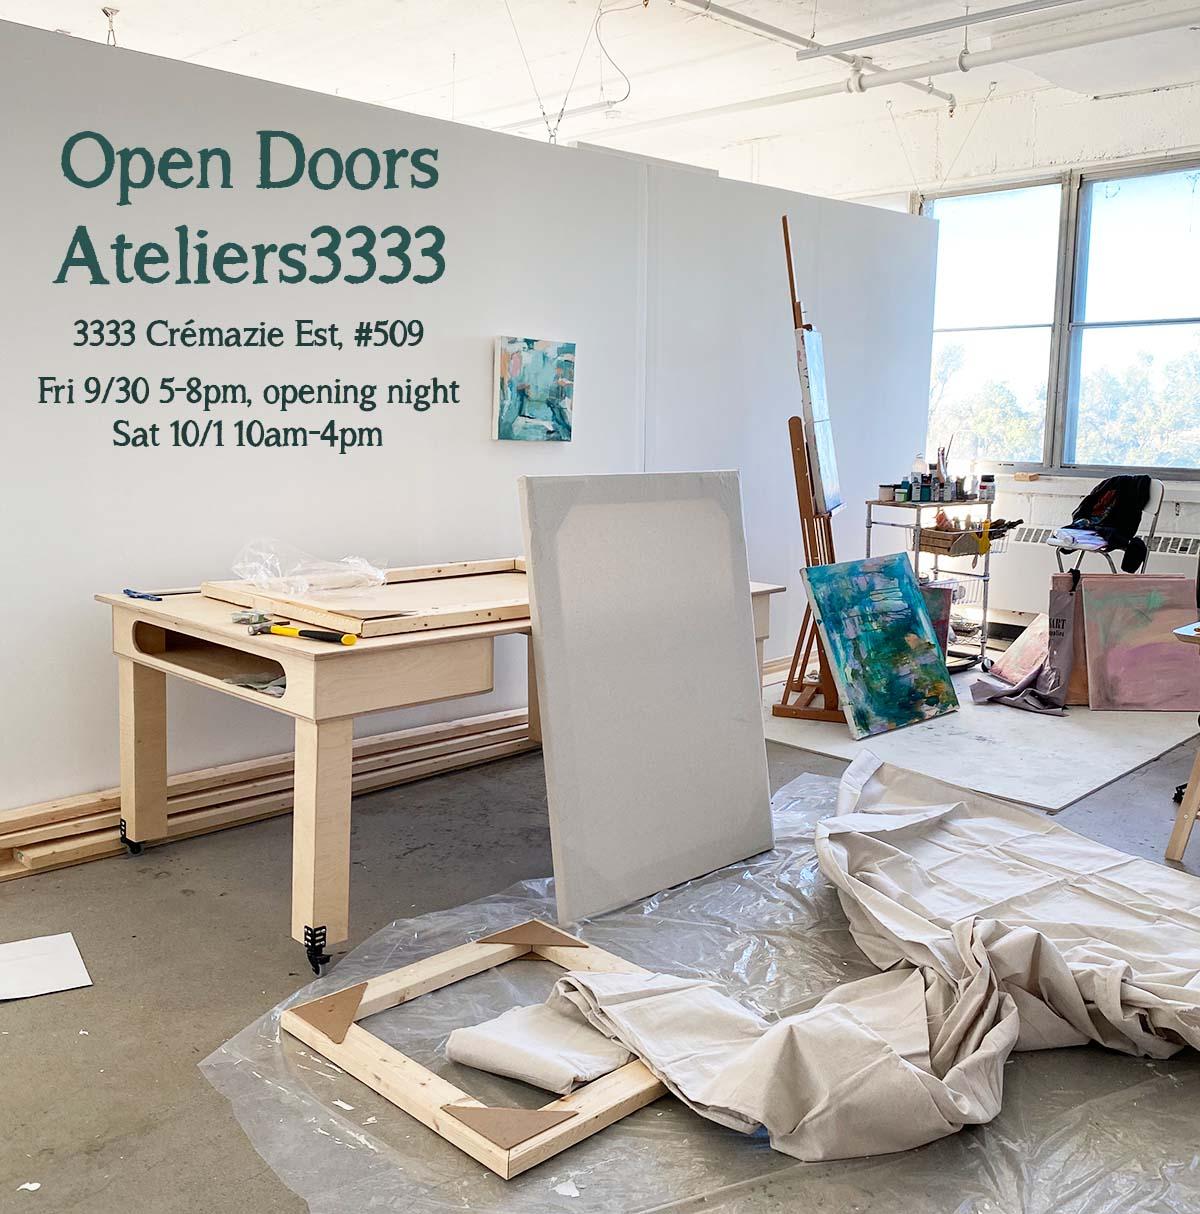
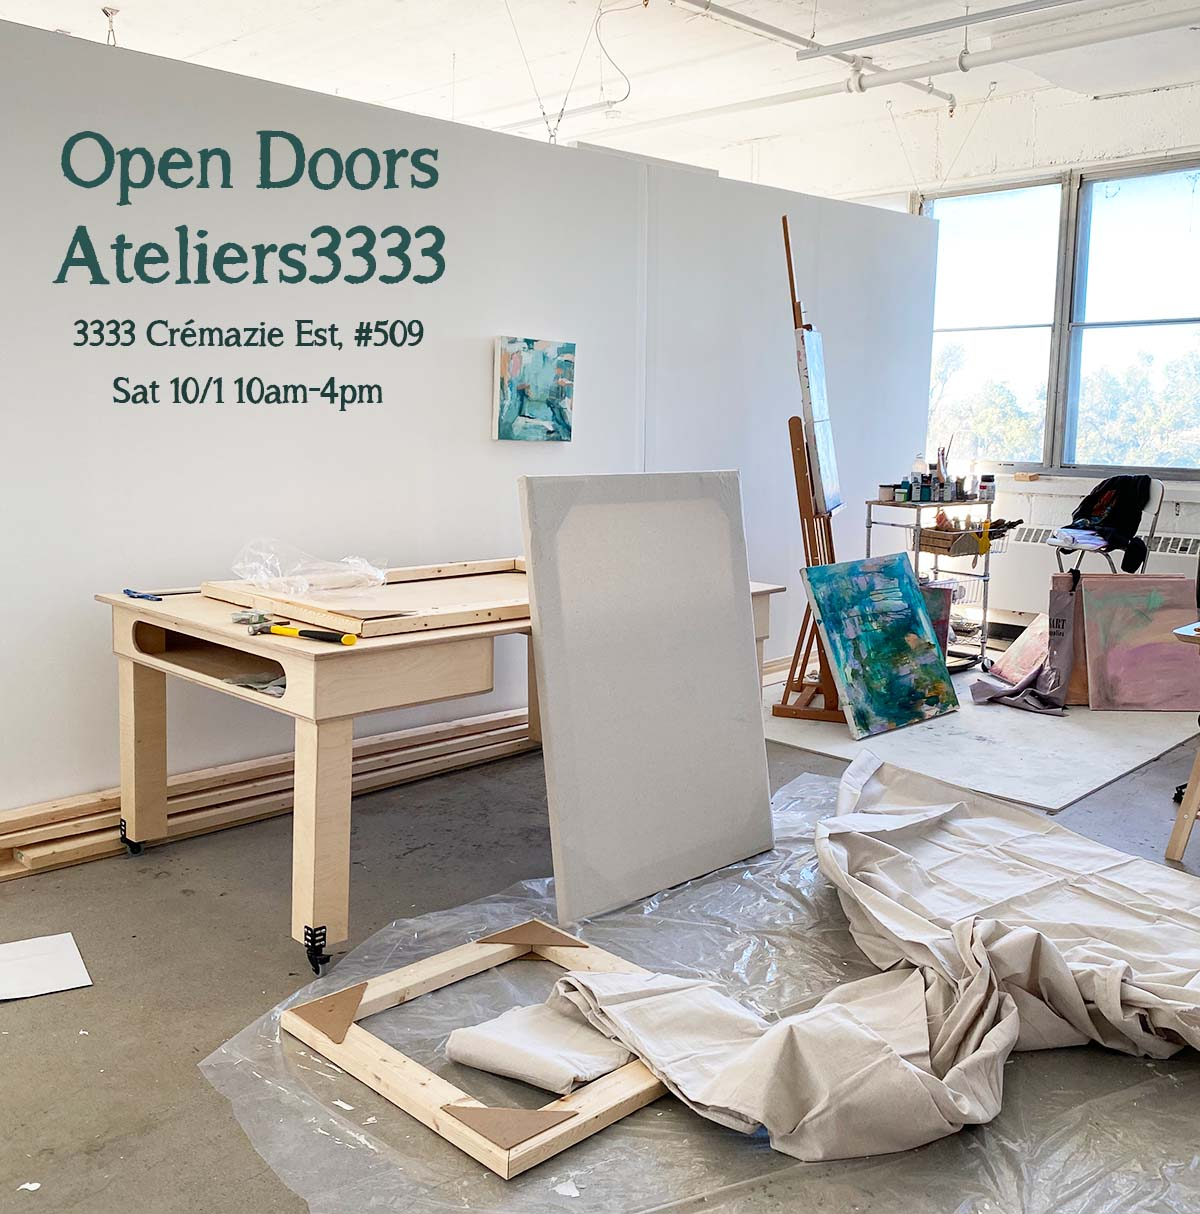
updated date on open doors

Changed region(s): [[0.0308, 0.3048, 0.4008, 0.3657]]

diff --git a/index.html b/index.html
@@ -21,7 +21,7 @@ featured_image: /images/social.jpg
 
 		<img style="margin-top: 30px;" src="/website/images/2022/OpenDoors/opendoorsposter.jpg">
 
-		<p> Montana's studio building is hosting an Open Doors event.  She will be opening her studio for visitors <b>Friday, Sept 30 5-8PM</b> and <b>Saturday, Oct 1st 10am-4pm</b>. Come by to hang out and meet all the talented artists in <a href="https://goo.gl/maps/nBJgXnMkgca8T9caA">Ateliers3333 (3333 Crémazie Est #509)</a>!  It is a 10 minute walk from the Saint Michel metro stop (blue line).</p>
+		<p> Montana's studio building is hosting an Open Doors event.  She will be opening her studio for visitors Saturday, Oct 1st 10am-4pm</b>. Come by to hang out and meet all the talented artists in <a href="https://goo.gl/maps/nBJgXnMkgca8T9caA">Ateliers3333 (3333 Crémazie Est #509)</a>!  It is a 10 minute walk from the Saint Michel metro stop (blue line).</p>
 
 	</div>
 </section>

diff --git a/_site/index.html b/_site/index.html
@@ -148,7 +148,7 @@
 
 		<img style="margin-top: 30px;" src="/website/images/2022/OpenDoors/opendoorsposter.jpg">
 
-		<p> Montana's studio building is hosting an Open Doors event.  She will be opening her studio for visitors <b>Friday, Sept 30 5-8PM</b> and <b>Saturday, Oct 1st 10am-4pm</b>. Come by to hang out and meet all the talented artists in <a href="https://goo.gl/maps/nBJgXnMkgca8T9caA">Ateliers3333 (3333 Crémazie Est #509)</a>!  It is a 10 minute walk from the Saint Michel metro stop (blue line).</p>
+		<p> Montana's studio building is hosting an Open Doors event.  She will be opening her studio for visitors Saturday, Oct 1st 10am-4pm</b>. Come by to hang out and meet all the talented artists in <a href="https://goo.gl/maps/nBJgXnMkgca8T9caA">Ateliers3333 (3333 Crémazie Est #509)</a>!  It is a 10 minute walk from the Saint Michel metro stop (blue line).</p>
 
 	</div>
 </section>
